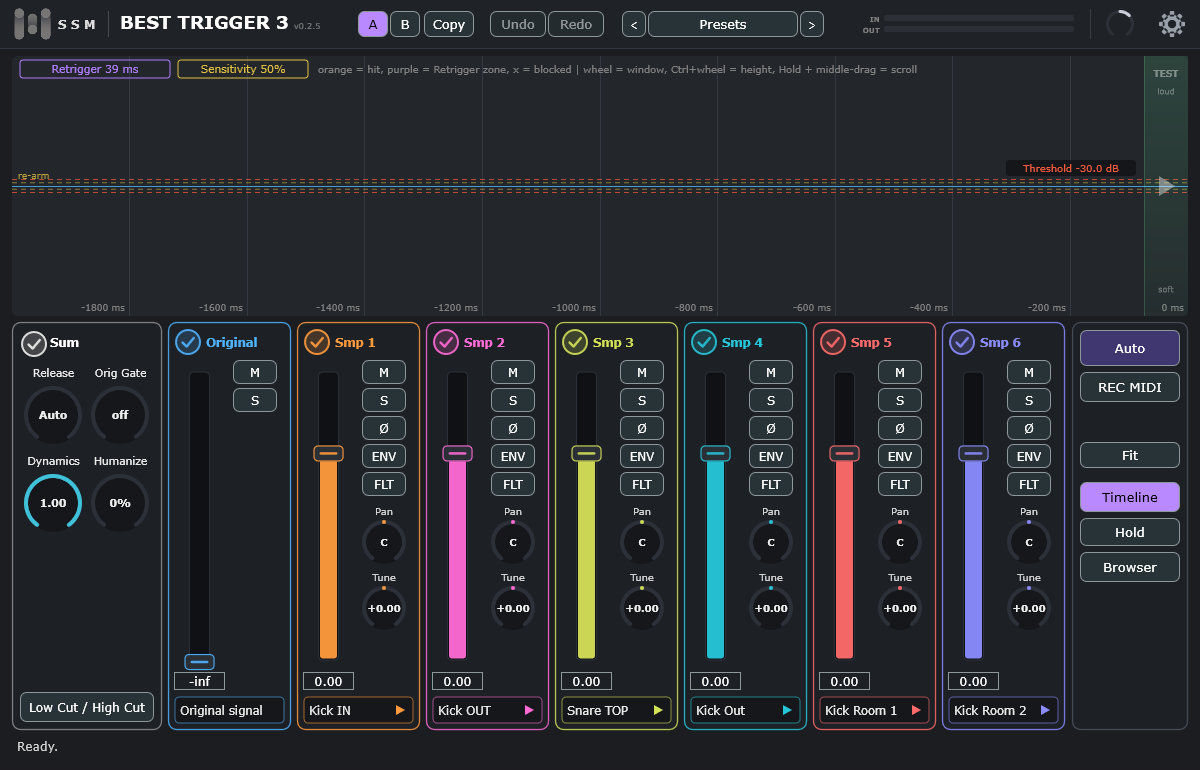
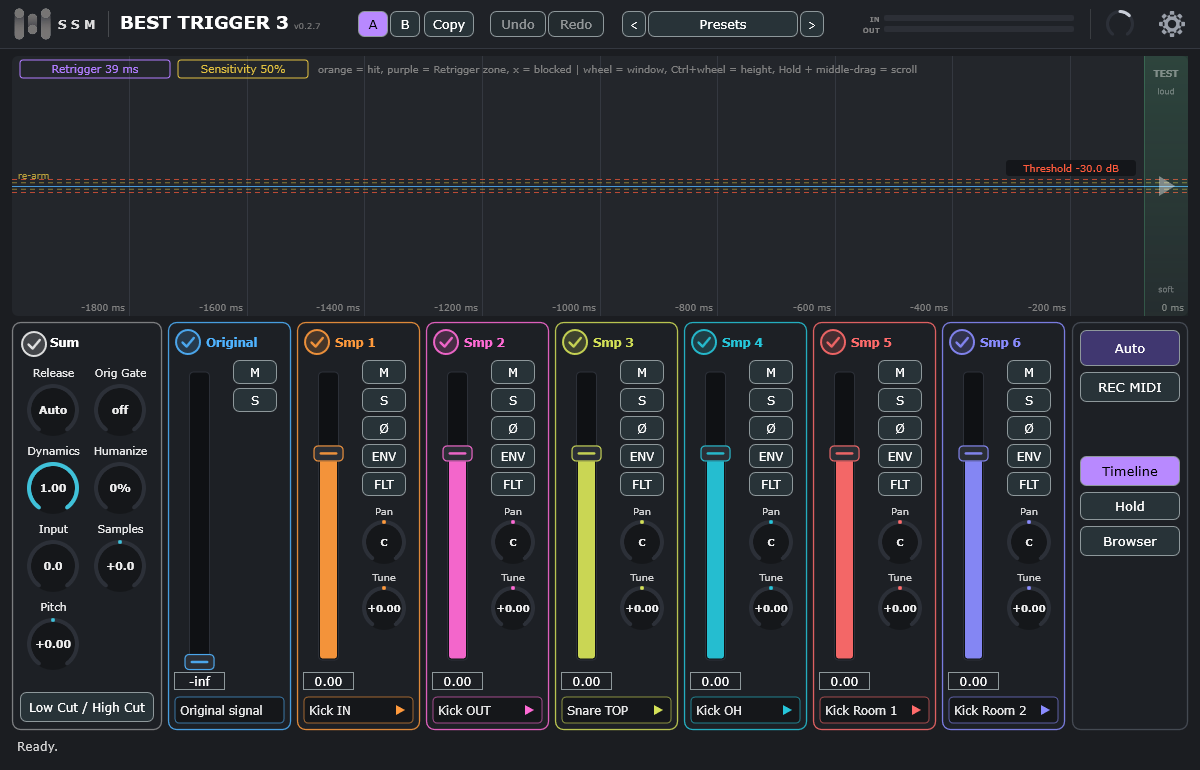
Manuals 0.2.7

diff --git a/docs/manual-ru.html b/docs/manual-ru.html
@@ -40,7 +40,7 @@
 <header class="top">
   <h1>BEST TRIGGER 3</h1>
   <div class="sub">Руководство пользователя</div>
-  <div class="ver">Версия 0.2.6 · VST3 · Windows 10/11 · macOS · <a href="manual-en.html">English version</a></div>
+  <div class="ver">Версия 0.2.7 · VST3 · Windows 10/11 · macOS · <a href="manual-en.html">English version</a></div>
 </header>
 <main>
 
@@ -114,9 +114,9 @@
   <tr><th style="width:170px">Область</th><th>Назначение</th></tr>
   <tr><td><b>Верхняя панель</b></td><td><b>A / B / Copy</b>, <b>Undo / Redo</b> (5 шагов), <b>Presets</b>, индикаторы IN/OUT, общая ручка выхода, меню-шестерёнка (красная точка — вышла новая версия).</td></tr>
   <tr><td><b>Осциллограф</b></td><td>Два вида, переключаются кнопкой справа: <b>Timeline</b> (удары во времени; вид при запуске) и <b>Phase</b> (последний удар). Зелёная полоса <b>TEST</b> справа — тестовый удар: выше щелчок — сильнее удар.</td></tr>
-  <tr><td><b>Панель Sum</b></td><td>Круглая галочка показывает сумму показанных графиков. <b>Release</b>, <b>Orig Gate</b>, <b>Dynamics</b>, <b>Humanize</b>; фильтры детектора <b>Low Cut / High Cut</b>.</td></tr>
+  <tr><td><b>Панель Sum</b></td><td>Круглая галочка показывает сумму показанных графиков. <b>Release</b>, <b>Orig Gate</b>, <b>Dynamics</b>, <b>Humanize</b>, <b>Input</b>, <b>Samples</b> (двигает все фейдеры сэмплов вместе) и <b>Pitch</b> (все ручки Tune вместе). То же делает Ctrl + перетаскивание любого фейдера сэмпла или ручки Tune; фильтры детектора <b>Low Cut / High Cut</b>.</td></tr>
   <tr><td><b>Каналы</b></td><td><b>Original</b> и <b>Smp 1–6</b>: галочка графика, фейдер, <b>M</b>, <b>S</b>, <b>Ø</b>, <b>ENV</b>, <b>FLT</b>, <b>Pan</b>, <b>Tune</b> и плашка с именем сэмпла.</td></tr>
-  <tr><td><b>Правая панель</b></td><td><b>Auto</b>, <b>REC MIDI</b>, <b>Fit</b> (Timeline), <b>Timeline / Phase</b>, <b>Hold</b>, <b>Browser</b> (полная версия).</td></tr>
+  <tr><td><b>Правая панель</b></td><td><b>Auto</b>, <b>REC MIDI</b>, <b>Timeline / Phase</b>, <b>Hold</b>, <b>Browser</b> (полная версия).</td></tr>
 </table>
 <p><kbd>Shift</kbd> делает любую ручку и фейдер в десять раз точнее. Двойной щелчок возвращает значение по умолчанию; правый щелчок по ручке — ввести число.</p>
 <h2>Пресеты</h2>
@@ -129,11 +129,12 @@
   <tr><td><b>Threshold</b></td><td>Уровень, выше которого сигнал считается ударом. Тяните красные линии.</td><td>−30 дБ</td></tr>
   <tr><td><b>Sensitivity</b></td><td>Как быстро детектор готов к следующему удару. Больше — надёжнее против двойных, меньше — ловит быстрые удары. Тяните жёлтые линии.</td><td>50%</td></tr>
   <tr><td><b>Retrigger</b></td><td>«Мёртвое время» после удара. Тяните край фиолетовой зоны.</td><td>40 мс</td></tr>
+  <tr><td><b>Input</b></td><td>Уровень ваших самых сильных ударов: они играют самым сильным слоем. Ставит Full Auto; или тяните зелёную линию <b>Loud</b>.</td><td>0 дБ</td></tr>
   <tr><td><b>Low Cut / High Cut</b></td><td>Фильтры только для детектора; звук не меняется.</td><td>—</td></tr>
 </table>
 <p><b>Dynamics</b>: 1.00 — сила удара полностью управляет слоем и громкостью; 0 — всегда самый сильный слой на полной громкости.</p>
 <ol class="steps">
-  <li>Запустите воспроизведение; колесо меняет окно времени, <b>Hold</b> замораживает картинку, <b>Fit</b> подгоняет высоту.</li>
+  <li>Запустите воспроизведение; колесо меняет окно времени, <b>Hold</b> замораживает картинку; высота подбирается сама.</li>
   <li>Подвиньте красные линии так, чтобы настоящие удары их пересекали, а лишние звуки оставались ниже.</li>
   <li>Крестики — звуки, пропущенные из-за Retrigger. Зачёркнуты настоящие удары: уменьшите Retrigger или Sensitivity. Несколько линий на одном ударе: увеличьте их.</li>
 </ol>
@@ -156,7 +157,7 @@
   <tr><td><b>FLT</b></td><td>Low Cut и High Cut для этого сэмпла.</td></tr>
   <tr><td><b>Pan, Tune</b></td><td>Панорама L100…R100; высота ±24 полутона.</td></tr>
   <tr><td><b>Release</b></td><td><b>Auto</b> (по умолчанию): новый удар сам приглушает предыдущий сэмпл того же канала, на быстрых партиях быстрее. <b>off</b> оставляет хвосты; можно задать время.</td></tr>
-  <tr><td><b>Orig Gate</b></td><td>После удара оригинал слышен это время, затем закрывается. 0 — выключено.</td></tr>
+  <tr><td><b>Orig Gate</b></td><td>После удара оригинал слышен это время, затем закрывается. Чем правее, тем короче; крайнее левое положение — выключено.</td></tr>
   <tr><td><b>Humanize</b></td><td>Небольшие случайные изменения уровня, высоты и времени на каждом ударе.</td></tr>
 </table>
 <div class="warn"><b>Нет звука?</b>Проверьте: активацию, сэмпл на плашке, Mute/Solo, фейдер и не слишком ли высок Threshold.</div>
@@ -166,9 +167,8 @@
 <ul>
   <li><b>R</b> + число: номер дубля.</li>
   <li><b>V</b> + число: скорость (0–127), с которой играет слой, например <code>_V0</code>, <code>_V50</code>, <code>_V105</code>.</li>
-  <li>Малые числа (<code>_V1 … _V4</code>) распределяются равномерно: чем больше число, тем сильнее удар.</li>
+  <li>Малые числа (<code>_V1 … _V4</code>) распределяются равномерно; плагин сам определяет по записям, где самый сильный удар, поэтому неважно, какой номер сильнейший.</li>
 </ul>
-<div class="warn"><b>Осторожно</b>Если в библиотеке слои пронумерованы наоборот, она играет «вверх ногами». Переименуйте файлы.</div>
 <p>Сохранить мультисэмпл одним файлом <code>.bt3</code>: правый щелчок по плашке → <b>Save multisample file (.bt3)…</b>.</p>
 
 <h1 id="library">9. Библиотека и браузер</h1>
@@ -176,6 +176,7 @@
 <ul>
   <li><b>Папка библиотеки:</b> шестерёнка → <b>Sample library</b>. По умолчанию <code>Documents\SSM-Audio\Best Trigger 3\Library</code>.</li>
   <li><b>Browser</b> (правая панель): дерево библиотеки с поиском и <b>Audition</b>. Щелчок играет файл; <b>двойной щелчок</b> загружает его в первый свободный канал; можно перетащить на пэд. Правый щелчок по файлу — ещё действия, по пэду — очистить.</li>
+  <li><b>Remember place</b> (слева внизу): браузер открывается там, где вы остановились. Файлы WAV и BT3 отмечены разными цветами.</li>
   <li><b>Online libraries…</b>: бесплатные библиотеки с обложкой и текстом автора. Выберите и нажмите <b>Download and install</b>.</li>
   <li><b>Migration…</b>: превращает библиотеку <code>.tci</code> в файлы <code>.bt3</code>. Выберите папку; файлы появятся в вашей библиотеке. Конвертируйте только бесплатные или свои сэмплы.</li>
 </ul>
@@ -225,7 +226,7 @@
   <tr><td><b>Check for updates</b></td><td>Зелёная строка, когда вышла новая версия.</td></tr>
   <tr><td><b>About, License…</b></td><td>Версия и лицензия.</td></tr>
 </table>
-<p>Плагин сообщает DAW задержку около 31,5 мс, и DAW её компенсирует. Не слушайте через плагин живую игру.</p>
+<p>Плагин сообщает DAW задержку около 36 мс, и DAW её компенсирует. Не слушайте через плагин живую игру.</p>
 
 <h1 id="trouble">14. Если что-то не так</h1>
 <table>
@@ -248,7 +249,7 @@
 <p>Плагин использует фреймворк JUCE, TweetNaCl и метод из проекта tci2wav (MIT). Тексты лицензий: <a href="https://github.com/BardinGuitars/Best-Trigger-3/blob/main/THIRD_PARTY_NOTICES.md">THIRD_PARTY_NOTICES.md</a>. VST — торговая марка Steinberg Media Technologies GmbH.</p>
 <footer>
   <b>© 2026 SSM-Audio. Все права защищены.</b><br>
-  Best Trigger 3 · версия 0.2.6
+  Best Trigger 3 · версия 0.2.7
 </footer>
 </main>
 </body>

diff --git a/docs/manual-en.html b/docs/manual-en.html
@@ -40,7 +40,7 @@
 <header class="top">
   <h1>BEST TRIGGER 3</h1>
   <div class="sub">User Manual</div>
-  <div class="ver">Version 0.2.6 · VST3 · Windows 10/11 · macOS · <a href="manual-ru.html">Русская версия</a></div>
+  <div class="ver">Version 0.2.7 · VST3 · Windows 10/11 · macOS · <a href="manual-ru.html">Русская версия</a></div>
 </header>
 <main>
 
@@ -114,9 +114,9 @@
   <tr><th style="width:170px">Area</th><th>Purpose</th></tr>
   <tr><td><b>Top panel</b></td><td><b>A / B / Copy</b>, <b>Undo / Redo</b> (5 steps), <b>Presets</b>, IN/OUT meters, master output knob, gear menu (a red dot means a new version).</td></tr>
   <tr><td><b>Scope</b></td><td>Two views, switched by the button on the right: <b>Timeline</b> (hits in time; the starting view) and <b>Phase</b> (the last hit). The green <b>TEST</b> strip on the right fires a test hit: higher click = harder hit.</td></tr>
-  <tr><td><b>Sum panel</b></td><td>The round tick shows the sum of the traces that are shown. <b>Release</b>, <b>Orig Gate</b>, <b>Dynamics</b>, <b>Humanize</b>; <b>Low Cut / High Cut</b> filters for the detector.</td></tr>
+  <tr><td><b>Sum panel</b></td><td>The round tick shows the sum of the traces that are shown. <b>Release</b>, <b>Orig Gate</b>, <b>Dynamics</b>, <b>Humanize</b>, <b>Input</b>, <b>Samples</b> (moves all sample faders together) and <b>Pitch</b> (all Tune knobs together). Ctrl + drag of any sample fader or Tune knob does the same; <b>Low Cut / High Cut</b> filters for the detector.</td></tr>
   <tr><td><b>Channels</b></td><td><b>Original</b> and <b>Smp 1–6</b>: trace tick, fader, <b>M</b>, <b>S</b>, <b>Ø</b>, <b>ENV</b>, <b>FLT</b>, <b>Pan</b>, <b>Tune</b>, and a plate with the sample name.</td></tr>
-  <tr><td><b>Right panel</b></td><td><b>Auto</b>, <b>REC MIDI</b>, <b>Fit</b> (Timeline), <b>Timeline / Phase</b>, <b>Hold</b>, <b>Browser</b> (full version).</td></tr>
+  <tr><td><b>Right panel</b></td><td><b>Auto</b>, <b>REC MIDI</b>, <b>Timeline / Phase</b>, <b>Hold</b>, <b>Browser</b> (full version).</td></tr>
 </table>
 <p><kbd>Shift</kbd> makes every knob and fader ten times finer. Double-click resets a value; right-click a knob to type a number.</p>
 <h2>Presets</h2>
@@ -129,11 +129,12 @@
   <tr><td><b>Threshold</b></td><td>The level above which the signal is a hit. Drag the red lines.</td><td>−30 dB</td></tr>
   <tr><td><b>Sensitivity</b></td><td>How quickly the detector is ready again. Higher = safer against doubles, lower = catches fast hits. Drag the yellow lines.</td><td>50%</td></tr>
   <tr><td><b>Retrigger</b></td><td>The dead time after a hit. Drag the edge of the purple zone.</td><td>40 ms</td></tr>
+  <tr><td><b>Input</b></td><td>The level of your loudest hits: they play the hardest layer. Full Auto sets it; or drag the green <b>Loud</b> line.</td><td>0 dB</td></tr>
   <tr><td><b>Low Cut / High Cut</b></td><td>Filters for the detector only; the sound does not change.</td><td>—</td></tr>
 </table>
 <p><b>Dynamics</b>: 1.00 = the hit strength fully controls the layer and loudness; 0 = always the hardest layer at full level.</p>
 <ol class="steps">
-  <li>Start playback; the wheel zooms the time window, <b>Hold</b> freezes the picture, <b>Fit</b> fits the height.</li>
+  <li>Start playback; the wheel zooms the time window, <b>Hold</b> freezes the picture; the height fits itself.</li>
   <li>Drag the red lines so that real hits cross them and unwanted sounds stay below.</li>
   <li>Crosses mark sounds skipped by Retrigger. Real hits crossed out: lower Retrigger or Sensitivity. Several lines on one hit: raise them.</li>
 </ol>
@@ -156,7 +157,7 @@
   <tr><td><b>FLT</b></td><td>Low Cut and High Cut for this sample.</td></tr>
   <tr><td><b>Pan, Tune</b></td><td>Pan L100…R100; pitch ±24 semitones.</td></tr>
   <tr><td><b>Release</b></td><td><b>Auto</b> (default): a new hit fades out the previous sample of the same channel by itself, faster on fast parts. <b>off</b> keeps the tails; or set a time.</td></tr>
-  <tr><td><b>Orig Gate</b></td><td>After a hit the original stays audible for this time, then closes. 0 = off.</td></tr>
+  <tr><td><b>Orig Gate</b></td><td>After a hit the original stays audible for this time, then closes. The further right, the shorter; all the way left = off.</td></tr>
   <tr><td><b>Humanize</b></td><td>Small random changes of level, pitch and timing on every hit.</td></tr>
 </table>
 <div class="warn"><b>No sound?</b>Check: activation, a sample on the plate, Mute/Solo, the fader, and that the Threshold is not too high.</div>
@@ -166,9 +167,8 @@
 <ul>
   <li><b>R</b> + number: the take.</li>
   <li><b>V</b> + number: the velocity (0–127) from which the layer plays, e.g. <code>_V0</code>, <code>_V50</code>, <code>_V105</code>.</li>
-  <li>Small numbers (<code>_V1 … _V4</code>) are spread evenly: a bigger number means a harder hit.</li>
+  <li>Small numbers (<code>_V1 … _V4</code>) are spread evenly; the plugin checks which end is the loudest recording, so it does not matter which number is the hardest hit.</li>
 </ul>
-<div class="warn"><b>Careful</b>If a library numbers its layers the other way round, it plays upside down. Rename the files.</div>
 <p>To save a multisample as one <code>.bt3</code> file: right-click the plate → <b>Save multisample file (.bt3)…</b>.</p>
 
 <h1 id="library">9. Library and browser</h1>
@@ -176,6 +176,7 @@
 <ul>
   <li><b>Library folder:</b> gear → <b>Sample library</b>. By default <code>Documents\SSM-Audio\Best Trigger 3\Library</code>.</li>
   <li><b>Browser</b> (right panel): a tree of your library with search and <b>Audition</b>. A click plays a file; a <b>double-click</b> loads it into the next free channel; you can also drag onto a pad. Right-click a file for more, right-click a pad to clear it.</li>
+  <li><b>Remember place</b> (bottom left): the browser opens where you stopped. WAV and BT3 files have different icon colours.</li>
   <li><b>Online libraries…</b>: free libraries with a cover and the author's text. Choose one and press <b>Download and install</b>.</li>
   <li><b>Migration…</b>: converts a <code>.tci</code> library into <code>.bt3</code> files. Choose the folder; the files are created in your library. Convert only free samples or your own.</li>
 </ul>
@@ -225,7 +226,7 @@
   <tr><td><b>Check for updates</b></td><td>Green when a new version is out.</td></tr>
   <tr><td><b>About, License…</b></td><td>Version and licence.</td></tr>
 </table>
-<p>The plugin reports a latency of about 31.5 ms to the DAW, which compensates for it. Do not monitor live playing through the plugin.</p>
+<p>The plugin reports a latency of about 36 ms to the DAW, which compensates for it. Do not monitor live playing through the plugin.</p>
 
 <h1 id="trouble">14. Troubleshooting</h1>
 <table>
@@ -248,7 +249,7 @@
 <p>The plugin uses the JUCE framework, TweetNaCl and a method from the tci2wav project (MIT). Licence texts: <a href="https://github.com/BardinGuitars/Best-Trigger-3/blob/main/THIRD_PARTY_NOTICES.md">THIRD_PARTY_NOTICES.md</a>. VST is a trademark of Steinberg Media Technologies GmbH.</p>
 <footer>
   <b>© 2026 SSM-Audio. All rights reserved.</b><br>
-  Best Trigger 3 · version 0.2.6
+  Best Trigger 3 · version 0.2.7
 </footer>
 </main>
 </body>
